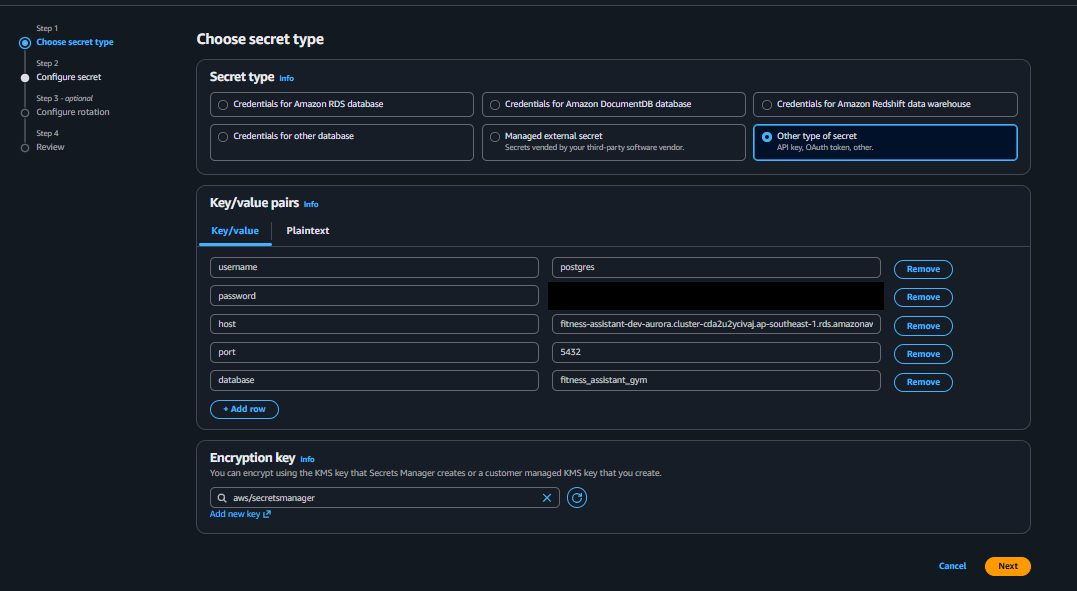
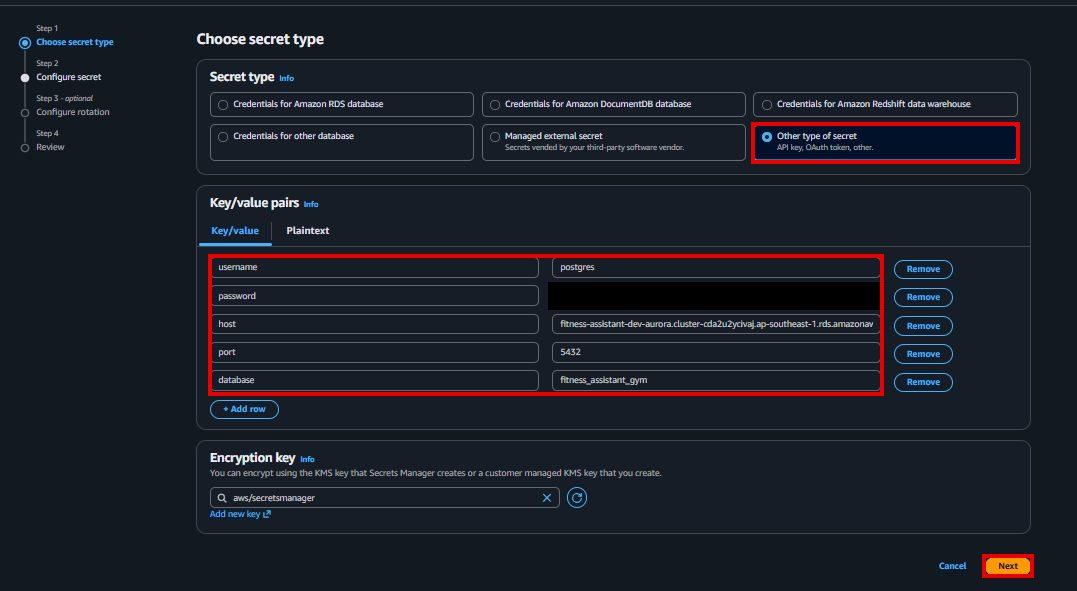
Workshop 5.4.6: one action per step, each followed by its screenshot

Changed region(s): [[0.1838, 0.4264, 0.8273, 0.6701], [0.6741, 0.1827, 0.9499, 0.3046], [0.8886, 0.9137, 0.9805, 1.0]]

diff --git a/content/5-Workshop/5.4-Deployment-Guide/5.4.6-Gym-Service/_index.vi.md b/content/5-Workshop/5.4-Deployment-Guide/5.4.6-Gym-Service/_index.vi.md
@@ -8,6 +8,8 @@ pre: " <b> 5.4.6. </b> "
 
 Gym Service xử lý phòng gym, danh sách PT, công cụ cho chủ phòng và admin, hợp tác và QR check-in. Đây là service đầu tiên có thêm một secret riêng: key ký mã QR check-in.
 
+Trong mọi ảnh bên dưới, các **khung đỏ** đánh dấu ô cần nhập hoặc nút cần bấm của bước nhỏ được viết ngay phía trên ảnh.
+
 | Mục | Giá trị |
 |---|---|
 | Logical database | `fitness_assistant_gym` (9 Prisma migration) |
@@ -17,17 +19,21 @@ Gym Service xử lý phòng gym, danh sách PT, công cụ cho chủ phòng và 
 
 #### Bước 1 — Tạo database secret
 
-Cùng cấu trúc với các service khác, với `database = fitness_assistant_gym`.
+**1.1 — Chọn loại secret và nhập các cặp.** Mở **Secrets Manager → Store a new secret**, chọn **Other type of secret**, rồi thêm năm dòng key/value giống các service khác: `username`, `password`, `host`, `port` và `database` = `fitness_assistant_gym`. Bấm **Next** và lưu secret với tên `fitness-assistant/dev/gym-database`.
 
-![Secret fitness-assistant/dev/gym-database (mật khẩu đã che)](/images/workshop/runbook/img104.jpg)
+![Other type of secret, năm dòng key/value, nút Next (mật khẩu đã che)](/images/workshop/runbook/img104.jpg)
+
+*Runbook không có ảnh của bước đặt tên cuối cùng và bấm **Store**.*
 
 #### Bước 2 — Upload artifact
 
-Upload `gym-migrate-lambda.zip` (~69 MiB, nên bắt buộc dùng S3) và `gym-lambda.zip` (~36 MiB — đủ nhỏ để upload trực tiếp, nhưng vẫn dùng S3 cho đồng nhất) lên `fitness-assistant-deployments-dev-<account-id>`.
+**2.1 — Upload `gym-lambda.zip`.** Mở bucket S3 `fitness-assistant-deployments-dev-<account-id>`, bấm **Upload**, thêm `gym-lambda.zip` (~36 MiB — đủ nhỏ để upload trực tiếp, nhưng vẫn dùng S3 cho đồng nhất) rồi bấm **Upload**. `gym-migrate-lambda.zip` (~69 MiB) cũng phải đi qua S3 theo cách tương tự.
 
-![Upload gym-lambda.zip (36 MB) lên bucket deployments](/images/workshop/runbook/img105.jpg)
+![gym-lambda.zip trong danh sách file và nút Upload](/images/workshop/runbook/img105.jpg)
 
-![Upload thành công](/images/workshop/runbook/img106.jpg)
+**2.2 — Kiểm tra kết quả.** Trang trạng thái phải hiện **Succeeded** cạnh file. Bấm **Close**.
+
+![Trạng thái Succeeded và nút Close](/images/workshop/runbook/img106.jpg)
 
 {{% notice warning %}}
 Ở thời điểm này của runbook, bước migration của Gym bị bỏ qua dù service có 9 migration: Lambda và route vẫn deploy được, nhưng mọi route chạm database sẽ lỗi cho tới khi `fitness_assistant_gym` có schema. Migration sau đó được chạy bằng function `fitness-assistant-dev-gym-migrate` theo [khuôn mẫu chung](../#common-pattern) — function này có trong danh sách function ở [5.4.10](../5.4.10-Chat-Service-ECS/) — và bảng trạng thái triển khai ghi nhận migration của Gym đã hoàn tất.
@@ -35,32 +41,56 @@ Upload `gym-migrate-lambda.zip` (~69 MiB, nên bắt buộc dùng S3) và `gym-l
 
 #### Bước 3 — Tạo runtime role
 
-`fitness-assistant-dev-gym-lambda-role` (AWS service → Lambda, hai managed policy), với hai inline policy:
+**3.1 — Tạo role.** Trong **IAM → Roles → Create role**, chọn **AWS service → Lambda**, gắn hai managed policy và đặt tên `fitness-assistant-dev-gym-lambda-role`.
 
-- `fitness-assistant-dev-gym-database-secret` — `secretsmanager:GetSecretValue` / `DescribeSecret` trên `fitness-assistant/dev/gym-database*`.
-- `fitness-assistant-dev-gym-service-invoke` — `lambda:InvokeFunction` trên `fitness-assistant-dev-auth` và `fitness-assistant-dev-user`.
+*Runbook không có ảnh của thao tác này.*
 
-![Inline policy cho secret database của Gym](/images/workshop/runbook/img107.jpg)
+**3.2 — Thêm policy cho secret.** Trên role, mở **Add permissions → Create inline policy**, chuyển sang **JSON** và dán policy bên dưới. Đặt tên `fitness-assistant-dev-gym-database-secret`.
 
-![Inline policy cho phép invoke Auth và User Lambda](/images/workshop/runbook/img108.jpg)
+```json
+{
+  "Version": "2012-10-17",
+  "Statement": [{
+    "Effect": "Allow",
+    "Action": ["secretsmanager:GetSecretValue", "secretsmanager:DescribeSecret"],
+    "Resource": "arn:aws:secretsmanager:ap-southeast-1:<account-id>:secret:fitness-assistant/dev/gym-database*"
+  }]
+}
+```
 
-![Hai inline policy đã gắn vào role](/images/workshop/runbook/img109.jpg)
+![JSON editor với statement GetSecretValue / DescribeSecret](/images/workshop/runbook/img107.jpg)
+
+**3.3 — Thêm policy invoke.** Tạo inline policy thứ hai theo cách tương tự, tên `fitness-assistant-dev-gym-service-invoke`, cho phép `lambda:InvokeFunction` chỉ trên `fitness-assistant-dev-auth` và `fitness-assistant-dev-user`.
+
+![JSON editor với statement lambda:InvokeFunction cho Auth và User](/images/workshop/runbook/img108.jpg)
+
+**3.4 — Kiểm tra role.** Cả hai inline policy phải xuất hiện trong danh sách của role.
+
+![Hai inline policy trong danh sách của role](/images/workshop/runbook/img109.jpg)
 
 Payment cố ý chưa có trong danh sách invoke — sẽ được thêm ở [5.4.7](../5.4.7-Payment-Service/#gym-to-payment) khi Payment Lambda đã tồn tại.
 
 #### Bước 4 — Tạo Gym Lambda
 
-`fitness-assistant-dev-gym`, Node.js 22.x, x86_64, role `fitness-assistant-dev-gym-lambda-role`, 1024 MB, 30 giây, handler `dist/lambda.handler`, code từ `s3://fitness-assistant-deployments-dev-<account-id>/gym-lambda.zip` (copy mode).
+**4.1 — Điền thông tin function.** Mở **Lambda → Create function**, giữ **Author from scratch**, đặt tên `fitness-assistant-dev-gym`, runtime **Node.js 22.x** (x86_64). Ở **Additional settings → Custom execution role** chọn `fitness-assistant-dev-gym-lambda-role`, rồi bấm **Create function**.
 
-![Create function fitness-assistant-dev-gym](/images/workshop/runbook/img110.jpg)
+![Author from scratch, tên, runtime Node.js 22.x và role có sẵn](/images/workshop/runbook/img110.jpg)
 
-![Memory 1024 MB, timeout 30 giây](/images/workshop/runbook/img111.jpg)
+**4.2 — Đặt memory và timeout.** Mở **Configuration → General configuration → Edit**, đặt **Memory** `1024` MB và **Timeout** `0` phút `30` giây, rồi bấm **Save**.
 
-![Handler dist/lambda.handler](/images/workshop/runbook/img112.jpg)
+![Memory 1024 MB, timeout 0 phút 30 giây, Save](/images/workshop/runbook/img111.jpg)
 
-![Code từ gym-lambda.zip trên S3, copy mode](/images/workshop/runbook/img113.jpg)
+**4.3 — Đặt handler.** Mở **Code → Runtime settings → Edit**, nhập `dist/lambda.handler` và bấm **Save**.
 
-#### Bước 5 — Environment variable
+![Handler dist/lambda.handler và Save](/images/workshop/runbook/img112.jpg)
+
+**4.4 — Nạp code.** Mở **Upload from → Amazon S3 location**, giữ **Copy mode**, dán `s3://fitness-assistant-deployments-dev-<account-id>/gym-lambda.zip` và bấm **Update**.
+
+![Link S3 tới gym-lambda.zip và Update](/images/workshop/runbook/img113.jpg)
+
+#### Bước 5 — Environment variable và VPC
+
+**5.1 — Thêm biến.** Mở **Configuration → Environment variables → Edit** và thêm:
 
 | Biến | Giá trị |
 |---|---|
@@ -71,15 +101,21 @@ Payment cố ý chưa có trong danh sách invoke — sẽ được thêm ở [5
 | `INTERNAL_SERVICE_SECRET` | giá trị service-to-service dùng chung |
 | `CHECKIN_TOKEN_SECRET` | một giá trị ngẫu nhiên mạnh, mới |
 
-![Environment variable của Gym Lambda (cả hai secret đã che)](/images/workshop/runbook/img114.jpg)
+![Sáu biến trong danh sách, nút Edit (cả hai secret đã che)](/images/workshop/runbook/img114.jpg)
 
 `CHECKIN_TOKEN_SECRET` phải khác `INTERNAL_SERVICE_SECRET`: nó ký mã QR hiển thị cho thành viên phòng gym, nên lộ một cái không được kéo theo lộ cái kia. `PAYMENT_LAMBDA_NAME` và `FITNESS_LAMBDA_NAME` chưa đặt.
 
-![Cấu hình VPC của Gym Lambda](/images/workshop/runbook/img115.jpg)
+**5.2 — Gắn VPC.** Mở **Configuration → VPC → Edit**, chọn VPC của dự án (`10.0.0.0/16`), chọn cả hai private app subnet (`private-app-a`, `private-app-b`) và security group `fitness-assistant-dev-lambda-sg`, rồi bấm **Save**.
+
+![VPC, hai private app subnet, security group của Lambda và Save](/images/workshop/runbook/img115.jpg)
 
 #### Bước 6 — Nối Gym Lambda vào API Gateway
 
-Tạo Lambda integration `fitness-assistant-dev-gym` (payload 2.0), sau đó tạo cặp route gốc + greedy route cho mỗi prefix:
+**6.1 — Tạo integration.** Trong **API Gateway → fitness-assistant-dev-api → Integrations → Create**, chọn **Lambda function**, region `ap-southeast-1`, chọn `fitness-assistant-dev-gym` và giữ payload format `2.0`.
+
+![Integration type Lambda function và Gym Lambda đã chọn](/images/workshop/runbook/img116.jpg)
+
+**6.2 — Gắn route.** Tạo cặp route gốc + greedy cho mỗi prefix và gắn từng route vào integration này:
 
 ```
 ANY /gyms             ANY /gyms/{proxy+}
@@ -90,9 +126,9 @@ ANY /admin            ANY /admin/{proxy+}
 ANY /collaborations   ANY /collaborations/{proxy+}
 ```
 
-![Lambda integration cho fitness-assistant-dev-gym](/images/workshop/runbook/img116.jpg)
+**6.3 — Kiểm tra một route.** Ở **Attach integrations to routes**, chọn một route như `ANY /collaborations`; chi tiết bên phải phải hiện `fitness-assistant-dev-gym`.
 
-![Route của Gym đã gắn vào integration](/images/workshop/runbook/img117.jpg)
+![Route ANY /collaborations được chọn, Lambda function fitness-assistant-dev-gym](/images/workshop/runbook/img117.jpg)
 
 {{% notice note %}}
 `/me`, `/admin` và `/pt` có thể đã tồn tại từ User Service. HTTP API không thể route cùng method và path tới hai integration, nên khi console báo route đã tồn tại thì **không** ghi đè — xung đột được giải quyết bằng cách kiểm tra code của service nào thực sự sở hữu path đó. Payment Service về sau tránh hẳn vấn đề này bằng các prefix cụ thể hơn như `/me/wallet`.
@@ -110,21 +146,35 @@ fitness-assistant-dev-api
 
 #### Bước 7 — Tạo jobs Lambda
 
-`fitness-assistant-dev-gym-jobs`: cùng role và artifact, handler `dist/jobs-lambda.handler`, 1024 MB, 1 phút, cùng VPC và environment variable (bao gồm `CHECKIN_TOKEN_SECRET`).
+`fitness-assistant-dev-gym-jobs` dùng cùng role và artifact với Gym Lambda.
 
-![Create function fitness-assistant-dev-gym-jobs](/images/workshop/runbook/img118.jpg)
+**7.1 — Điền thông tin function.** Mở **Lambda → Create function**, giữ **Author from scratch**, đặt tên `fitness-assistant-dev-gym-jobs`, runtime **Node.js 22.x**, ở **Additional settings → Custom execution role** chọn `fitness-assistant-dev-gym-lambda-role`. Rồi bấm **Create function**.
 
-![Memory 1024 MB, timeout 1 phút](/images/workshop/runbook/img119.jpg)
+![Author from scratch, tên gym-jobs, runtime Node.js 22.x và role có sẵn](/images/workshop/runbook/img118.jpg)
 
-![Handler dist/jobs-lambda.handler](/images/workshop/runbook/img120.jpg)
+**7.2 — Đặt memory và timeout.** **Configuration → General configuration → Edit**: **Memory** `1024` MB, **Timeout** `1` phút `0` giây, rồi **Save**.
 
-![Cùng gym-lambda.zip từ S3](/images/workshop/runbook/img121.jpg)
+![Memory 1024 MB, timeout 1 phút 0 giây, Save](/images/workshop/runbook/img119.jpg)
 
-![Cấu hình VPC của jobs Lambda](/images/workshop/runbook/img122.jpg)
+**7.3 — Đặt handler.** **Code → Runtime settings → Edit**: `dist/jobs-lambda.handler`, rồi **Save**.
+
+![Handler dist/jobs-lambda.handler và Save](/images/workshop/runbook/img120.jpg)
+
+**7.4 — Nạp code.** **Upload from → Amazon S3 location**: dán cùng link `gym-lambda.zip`, giữ **Copy mode**, bấm **Update**.
+
+![Cùng link S3 tới gym-lambda.zip và Update](/images/workshop/runbook/img121.jpg)
+
+**7.5 — Gắn VPC.** **Configuration → VPC → Edit**: cùng VPC, subnet và security group như Gym Lambda, rồi **Save**. Sao chép luôn các environment variable, bao gồm `CHECKIN_TOKEN_SECRET`.
+
+![VPC, hai private app subnet, security group của Lambda và Save](/images/workshop/runbook/img122.jpg)
 
 #### Bước 8 — Scheduler role và schedule
 
-Tạo `fitness-assistant-dev-gym-jobs-scheduler-role` (trust `scheduler.amazonaws.com`) với inline policy `fitness-assistant-dev-invoke-gym-jobs` cho phép `lambda:InvokeFunction` chỉ trên Gym jobs Lambda, rồi tạo hai schedule:
+**8.1 — Tạo scheduler role.** Tạo `fitness-assistant-dev-gym-jobs-scheduler-role` (trust `scheduler.amazonaws.com`) với inline policy `fitness-assistant-dev-invoke-gym-jobs` cho phép `lambda:InvokeFunction` chỉ trên Gym jobs Lambda.
+
+*Runbook không có ảnh của thao tác này.*
+
+**8.2 — Tạo hai schedule** trong **EventBridge → Schedules**:
 
 | Schedule | Tần suất | Payload |
 |---|---|---|
@@ -132,3 +182,5 @@ Tạo `fitness-assistant-dev-gym-jobs-scheduler-role` (trust `scheduler.amazonaw
 | `fitness-assistant-dev-gym-referral-settlement` | `rate(10 minutes)` | `{"job":"referral-settlement-sweep"}` |
 
 Cả hai: tắt flexible window, enabled, maximum event age 5 phút, 2 lần thử lại, không DLQ, key do AWS sở hữu, dùng scheduler role có sẵn. Cả hai job đều cần Payment Service, đó là lý do Gym jobs Lambda cũng nhận `PAYMENT_LAMBDA_NAME` ở trang tiếp theo.
+
+*Runbook không có ảnh của bước tạo schedule.*

diff --git a/content/5-Workshop/5.4-Deployment-Guide/5.4.6-Gym-Service/_index.md b/content/5-Workshop/5.4-Deployment-Guide/5.4.6-Gym-Service/_index.md
@@ -8,6 +8,8 @@ pre: " <b> 5.4.6. </b> "
 
 The Gym Service handles gyms, PT listings, owner and admin tools, collaborations and QR check-in. It is the first service with a second secret of its own: the key that signs check-in QR codes.
 
+In every screenshot below, the **red rectangles** mark what to fill in or click for the sub-step written just above it.
+
 | Item | Value |
 |---|---|
 | Logical database | `fitness_assistant_gym` (9 Prisma migrations) |
@@ -17,17 +19,21 @@ The Gym Service handles gyms, PT listings, owner and admin tools, collaborations
 
 #### Step 1 — Create the database secret
 
-Same structure as the other services, with `database = fitness_assistant_gym`.
+**1.1 — Choose the secret type and fill in the pairs.** Open **Secrets Manager → Store a new secret**, choose **Other type of secret**, then add the same five key/value rows as the other services: `username`, `password`, `host`, `port` and `database` = `fitness_assistant_gym`. Then click **Next** and save the secret as `fitness-assistant/dev/gym-database`.
 
-![Secret fitness-assistant/dev/gym-database (password redacted)](/images/workshop/runbook/img104.jpg)
+![Other type of secret, five key/value rows, Next button (password redacted)](/images/workshop/runbook/img104.jpg)
+
+*The runbook has no screenshot of the final name and **Store** click.*
 
 #### Step 2 — Upload the artifacts
 
-Upload `gym-migrate-lambda.zip` (~69 MiB, so S3 is mandatory) and `gym-lambda.zip` (~36 MiB — small enough for a direct upload, but S3 is used for consistency) to `fitness-assistant-deployments-dev-<account-id>`.
+**2.1 — Upload `gym-lambda.zip`.** Open the S3 bucket `fitness-assistant-deployments-dev-<account-id>`, click **Upload**, add `gym-lambda.zip` (~36 MiB — small enough for a direct upload, but S3 is used for consistency) and click **Upload**. `gym-migrate-lambda.zip` (~69 MiB) must go through S3 the same way.
 
-![Uploading gym-lambda.zip (36 MB) to the deployments bucket](/images/workshop/runbook/img105.jpg)
+![gym-lambda.zip in the file list and the Upload button](/images/workshop/runbook/img105.jpg)
 
-![Upload succeeded](/images/workshop/runbook/img106.jpg)
+**2.2 — Check the result.** The status page must show **Succeeded** next to the file. Click **Close**.
+
+![Status Succeeded and the Close button](/images/workshop/runbook/img106.jpg)
 
 {{% notice warning %}}
 At this point in the runbook the Gym migration was skipped, even though the service has 9 migrations: the Lambda and its routes can be deployed, but every route that touches the database fails until `fitness_assistant_gym` has its schema. The migration was run with a `fitness-assistant-dev-gym-migrate` function following the [common pattern](../#common-pattern) — it appears in the function list in [5.4.10](../5.4.10-Chat-Service-ECS/) — and the deployment status table records the Gym migration as complete.
@@ -35,32 +41,56 @@ At this point in the runbook the Gym migration was skipped, even though the serv
 
 #### Step 3 — Create the runtime role
 
-`fitness-assistant-dev-gym-lambda-role` (AWS service → Lambda, the two managed policies), with two inline policies:
+**3.1 — Create the role.** In **IAM → Roles → Create role**, choose **AWS service → Lambda**, attach the two managed policies and name it `fitness-assistant-dev-gym-lambda-role`.
 
-- `fitness-assistant-dev-gym-database-secret` — `secretsmanager:GetSecretValue` / `DescribeSecret` on `fitness-assistant/dev/gym-database*`.
-- `fitness-assistant-dev-gym-service-invoke` — `lambda:InvokeFunction` on `fitness-assistant-dev-auth` and `fitness-assistant-dev-user`.
+*The runbook has no screenshot of this action.*
 
-![Inline policy for the Gym database secret](/images/workshop/runbook/img107.jpg)
+**3.2 — Add the secret policy.** On the role, open **Add permissions → Create inline policy**, switch to **JSON**, and paste the policy below. Name it `fitness-assistant-dev-gym-database-secret`.
 
-![Inline policy allowing invoke of the Auth and User Lambdas](/images/workshop/runbook/img108.jpg)
+```json
+{
+  "Version": "2012-10-17",
+  "Statement": [{
+    "Effect": "Allow",
+    "Action": ["secretsmanager:GetSecretValue", "secretsmanager:DescribeSecret"],
+    "Resource": "arn:aws:secretsmanager:ap-southeast-1:<account-id>:secret:fitness-assistant/dev/gym-database*"
+  }]
+}
+```
 
-![Both inline policies attached to the role](/images/workshop/runbook/img109.jpg)
+![JSON editor with the GetSecretValue / DescribeSecret statement](/images/workshop/runbook/img107.jpg)
+
+**3.3 — Add the invoke policy.** Create a second inline policy in the same way, named `fitness-assistant-dev-gym-service-invoke`, allowing `lambda:InvokeFunction` on `fitness-assistant-dev-auth` and `fitness-assistant-dev-user` only.
+
+![JSON editor with the lambda:InvokeFunction statement for Auth and User](/images/workshop/runbook/img108.jpg)
+
+**3.4 — Check the role.** Both inline policies must now be listed on the role.
+
+![The two inline policies listed on the role](/images/workshop/runbook/img109.jpg)
 
 Payment is deliberately not in the invoke list yet — it is added in [5.4.7](../5.4.7-Payment-Service/#gym-to-payment) once the Payment Lambda exists.
 
 #### Step 4 — Create the Gym Lambda
 
-`fitness-assistant-dev-gym`, Node.js 22.x, x86_64, role `fitness-assistant-dev-gym-lambda-role`, 1024 MB, 30 s, handler `dist/lambda.handler`, code from `s3://fitness-assistant-deployments-dev-<account-id>/gym-lambda.zip` (copy mode).
+**4.1 — Fill in the function.** Open **Lambda → Create function**, keep **Author from scratch**, set the name to `fitness-assistant-dev-gym` and the runtime to **Node.js 22.x** (x86_64). Under **Additional settings → Custom execution role** choose `fitness-assistant-dev-gym-lambda-role`, then click **Create function**.
 
-![Create function fitness-assistant-dev-gym](/images/workshop/runbook/img110.jpg)
+![Author from scratch, name, runtime Node.js 22.x and the existing role](/images/workshop/runbook/img110.jpg)
 
-![Memory 1024 MB, timeout 30 seconds](/images/workshop/runbook/img111.jpg)
+**4.2 — Set memory and timeout.** Open **Configuration → General configuration → Edit**, set **Memory** to `1024` MB and **Timeout** to `0` min `30` sec, then click **Save**.
 
-![Handler dist/lambda.handler](/images/workshop/runbook/img112.jpg)
+![Memory 1024 MB, timeout 0 min 30 sec, Save](/images/workshop/runbook/img111.jpg)
 
-![Code from gym-lambda.zip in S3, copy mode](/images/workshop/runbook/img113.jpg)
+**4.3 — Set the handler.** Open **Code → Runtime settings → Edit**, enter `dist/lambda.handler` and click **Save**.
 
-#### Step 5 — Environment variables
+![Handler dist/lambda.handler and Save](/images/workshop/runbook/img112.jpg)
+
+**4.4 — Load the code.** Open **Upload from → Amazon S3 location**, keep **Copy mode**, paste `s3://fitness-assistant-deployments-dev-<account-id>/gym-lambda.zip` and click **Update**.
+
+![S3 link to gym-lambda.zip and Update](/images/workshop/runbook/img113.jpg)
+
+#### Step 5 — Environment variables and VPC
+
+**5.1 — Add the variables.** Open **Configuration → Environment variables → Edit** and add:
 
 | Variable | Value |
 |---|---|
@@ -71,15 +101,21 @@ Payment is deliberately not in the invoke list yet — it is added in [5.4.7](..
 | `INTERNAL_SERVICE_SECRET` | the shared service-to-service value |
 | `CHECKIN_TOKEN_SECRET` | a new, strong random value |
 
-![Gym Lambda environment variables (both secrets redacted)](/images/workshop/runbook/img114.jpg)
+![Six variables listed, with the Edit button (both secrets redacted)](/images/workshop/runbook/img114.jpg)
 
 `CHECKIN_TOKEN_SECRET` must be different from `INTERNAL_SERVICE_SECRET`: it signs the QR codes shown to gym members, so leaking one must not compromise the other. `PAYMENT_LAMBDA_NAME` and `FITNESS_LAMBDA_NAME` are not set yet.
 
-![Gym Lambda VPC configuration](/images/workshop/runbook/img115.jpg)
+**5.2 — Attach the VPC.** Open **Configuration → VPC → Edit**, choose the project VPC (`10.0.0.0/16`), select both private app subnets (`private-app-a` and `private-app-b`) and the `fitness-assistant-dev-lambda-sg` security group, then click **Save**.
+
+![VPC, the two private app subnets, Lambda security group and Save](/images/workshop/runbook/img115.jpg)
 
 #### Step 6 — Connect the Gym Lambda to API Gateway
 
-Create the Lambda integration `fitness-assistant-dev-gym` (payload 2.0), then the root + greedy route pair for each prefix:
+**6.1 — Create the integration.** In **API Gateway → fitness-assistant-dev-api → Integrations → Create**, choose **Lambda function**, region `ap-southeast-1`, pick `fitness-assistant-dev-gym` and keep payload format `2.0`.
+
+![Integration type Lambda function and the Gym Lambda selected](/images/workshop/runbook/img116.jpg)
+
+**6.2 — Attach the routes.** Create the root + greedy route pair for each prefix and attach each to this integration:
 
 ```
 ANY /gyms             ANY /gyms/{proxy+}
@@ -90,9 +126,9 @@ ANY /admin            ANY /admin/{proxy+}
 ANY /collaborations   ANY /collaborations/{proxy+}
 ```
 
-![Lambda integration for fitness-assistant-dev-gym](/images/workshop/runbook/img116.jpg)
+**6.3 — Check one route.** Under **Attach integrations to routes**, select a route such as `ANY /collaborations`; the details on the right must show `fitness-assistant-dev-gym`.
 
-![Gym routes attached to the integration](/images/workshop/runbook/img117.jpg)
+![Route ANY /collaborations selected, Lambda function fitness-assistant-dev-gym](/images/workshop/runbook/img117.jpg)
 
 {{% notice note %}}
 `/me`, `/admin` and `/pt` can already exist from the User Service. An HTTP API cannot route the same method and path to two integrations, so when the console reports an existing route it is **not** overwritten — the conflict is resolved by checking which service's code actually owns that path. The Payment Service later avoids the problem entirely by using more specific prefixes such as `/me/wallet`.
@@ -110,21 +146,35 @@ fitness-assistant-dev-api
 
 #### Step 7 — Create the jobs Lambda
 
-`fitness-assistant-dev-gym-jobs`: same role and artifact, handler `dist/jobs-lambda.handler`, 1024 MB, 1 minute, same VPC and environment variables (including `CHECKIN_TOKEN_SECRET`).
+`fitness-assistant-dev-gym-jobs` uses the same role and artifact as the Gym Lambda.
 
-![Create function fitness-assistant-dev-gym-jobs](/images/workshop/runbook/img118.jpg)
+**7.1 — Fill in the function.** Open **Lambda → Create function**, keep **Author from scratch**, set the name to `fitness-assistant-dev-gym-jobs`, runtime **Node.js 22.x**, and under **Additional settings → Custom execution role** choose `fitness-assistant-dev-gym-lambda-role`. Then click **Create function**.
 
-![Memory 1024 MB, timeout 1 minute](/images/workshop/runbook/img119.jpg)
+![Author from scratch, name gym-jobs, runtime Node.js 22.x and the existing role](/images/workshop/runbook/img118.jpg)
 
-![Handler dist/jobs-lambda.handler](/images/workshop/runbook/img120.jpg)
+**7.2 — Set memory and timeout.** **Configuration → General configuration → Edit**: **Memory** `1024` MB, **Timeout** `1` min `0` sec, then **Save**.
 
-![Same gym-lambda.zip from S3](/images/workshop/runbook/img121.jpg)
+![Memory 1024 MB, timeout 1 min 0 sec, Save](/images/workshop/runbook/img119.jpg)
 
-![Jobs Lambda VPC configuration](/images/workshop/runbook/img122.jpg)
+**7.3 — Set the handler.** **Code → Runtime settings → Edit**: `dist/jobs-lambda.handler`, then **Save**.
+
+![Handler dist/jobs-lambda.handler and Save](/images/workshop/runbook/img120.jpg)
+
+**7.4 — Load the code.** **Upload from → Amazon S3 location**: paste the same `gym-lambda.zip` link, keep **Copy mode**, click **Update**.
+
+![Same S3 link to gym-lambda.zip and Update](/images/workshop/runbook/img121.jpg)
+
+**7.5 — Attach the VPC.** **Configuration → VPC → Edit**: same VPC, subnets and security group as the Gym Lambda, then **Save**. Copy the environment variables as well, including `CHECKIN_TOKEN_SECRET`.
+
+![VPC, the two private app subnets, Lambda security group and Save](/images/workshop/runbook/img122.jpg)
 
 #### Step 8 — Scheduler role and schedules
 
-Create `fitness-assistant-dev-gym-jobs-scheduler-role` (trust `scheduler.amazonaws.com`) with an inline policy `fitness-assistant-dev-invoke-gym-jobs` allowing `lambda:InvokeFunction` on the Gym jobs Lambda only, then two schedules:
+**8.1 — Create the scheduler role.** Create `fitness-assistant-dev-gym-jobs-scheduler-role` (trust `scheduler.amazonaws.com`) with an inline policy `fitness-assistant-dev-invoke-gym-jobs` allowing `lambda:InvokeFunction` on the Gym jobs Lambda only.
+
+*The runbook has no screenshot of this action.*
+
+**8.2 — Create the two schedules** in **EventBridge → Schedules**:
 
 | Schedule | Rate | Payload |
 |---|---|---|
@@ -132,3 +182,5 @@ Create `fitness-assistant-dev-gym-jobs-scheduler-role` (trust `scheduler.amazona
 | `fitness-assistant-dev-gym-referral-settlement` | `rate(10 minutes)` | `{"job":"referral-settlement-sweep"}` |
 
 Both: flexible window off, enabled, maximum event age 5 minutes, 2 retry attempts, no DLQ, AWS-owned key, the existing scheduler role. Both jobs need the Payment Service, which is why the Gym jobs Lambda also receives `PAYMENT_LAMBDA_NAME` in the next page.
+
+*The runbook has no screenshot of the schedule creation.*
